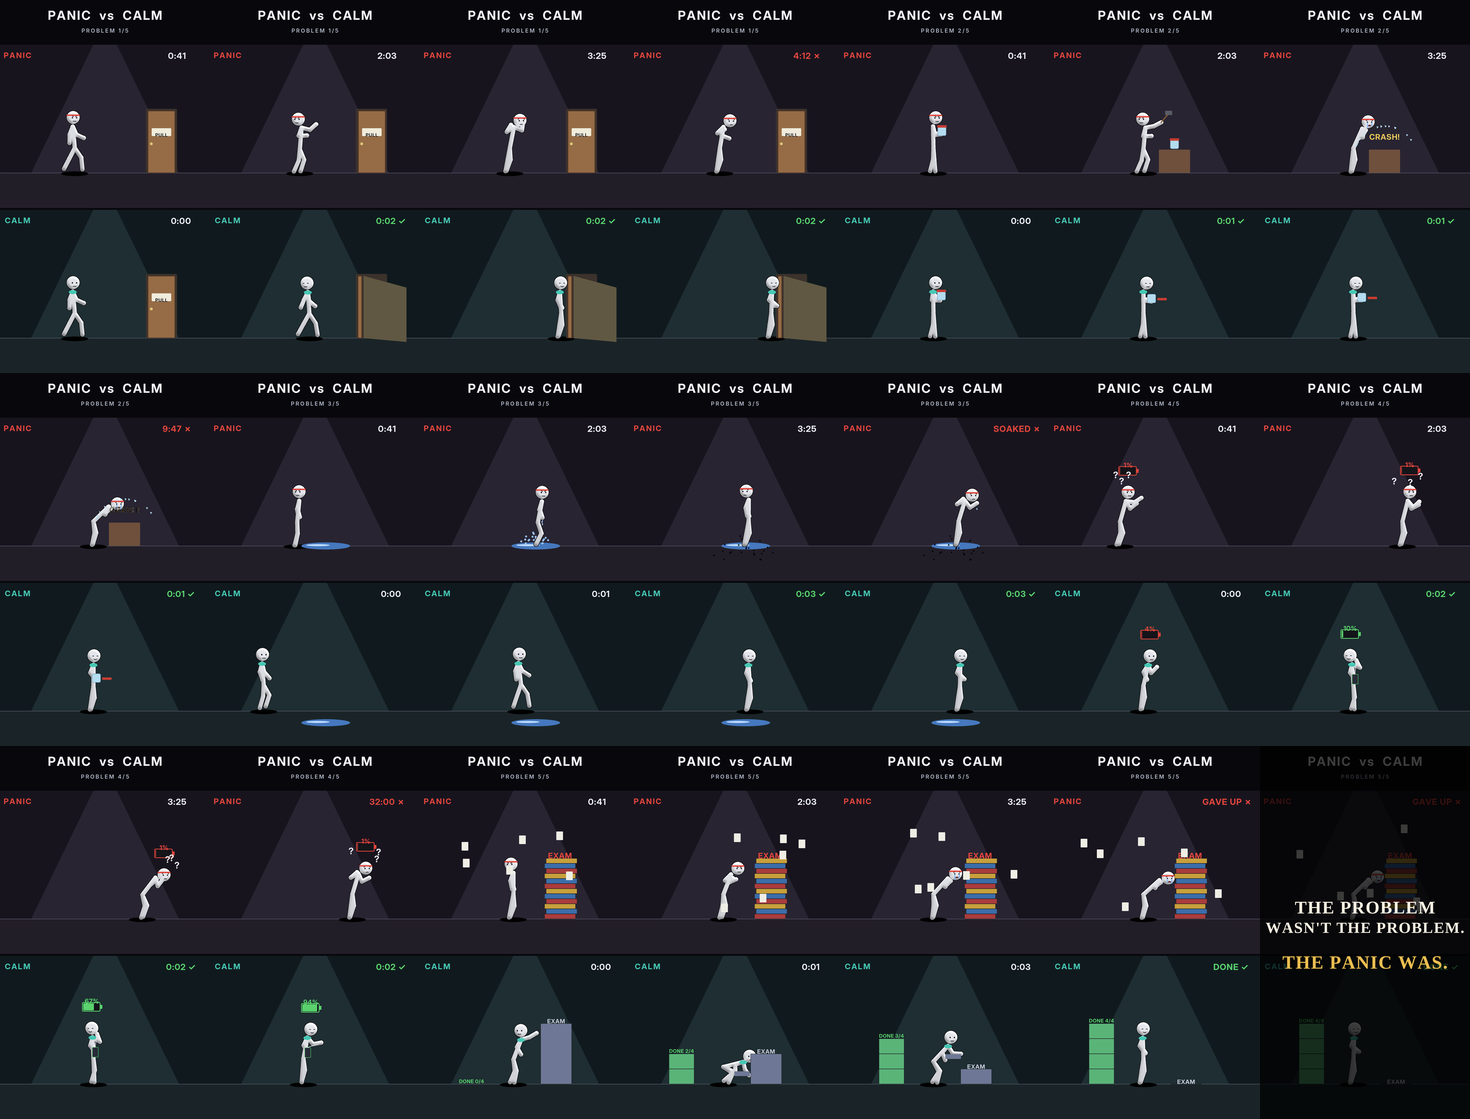
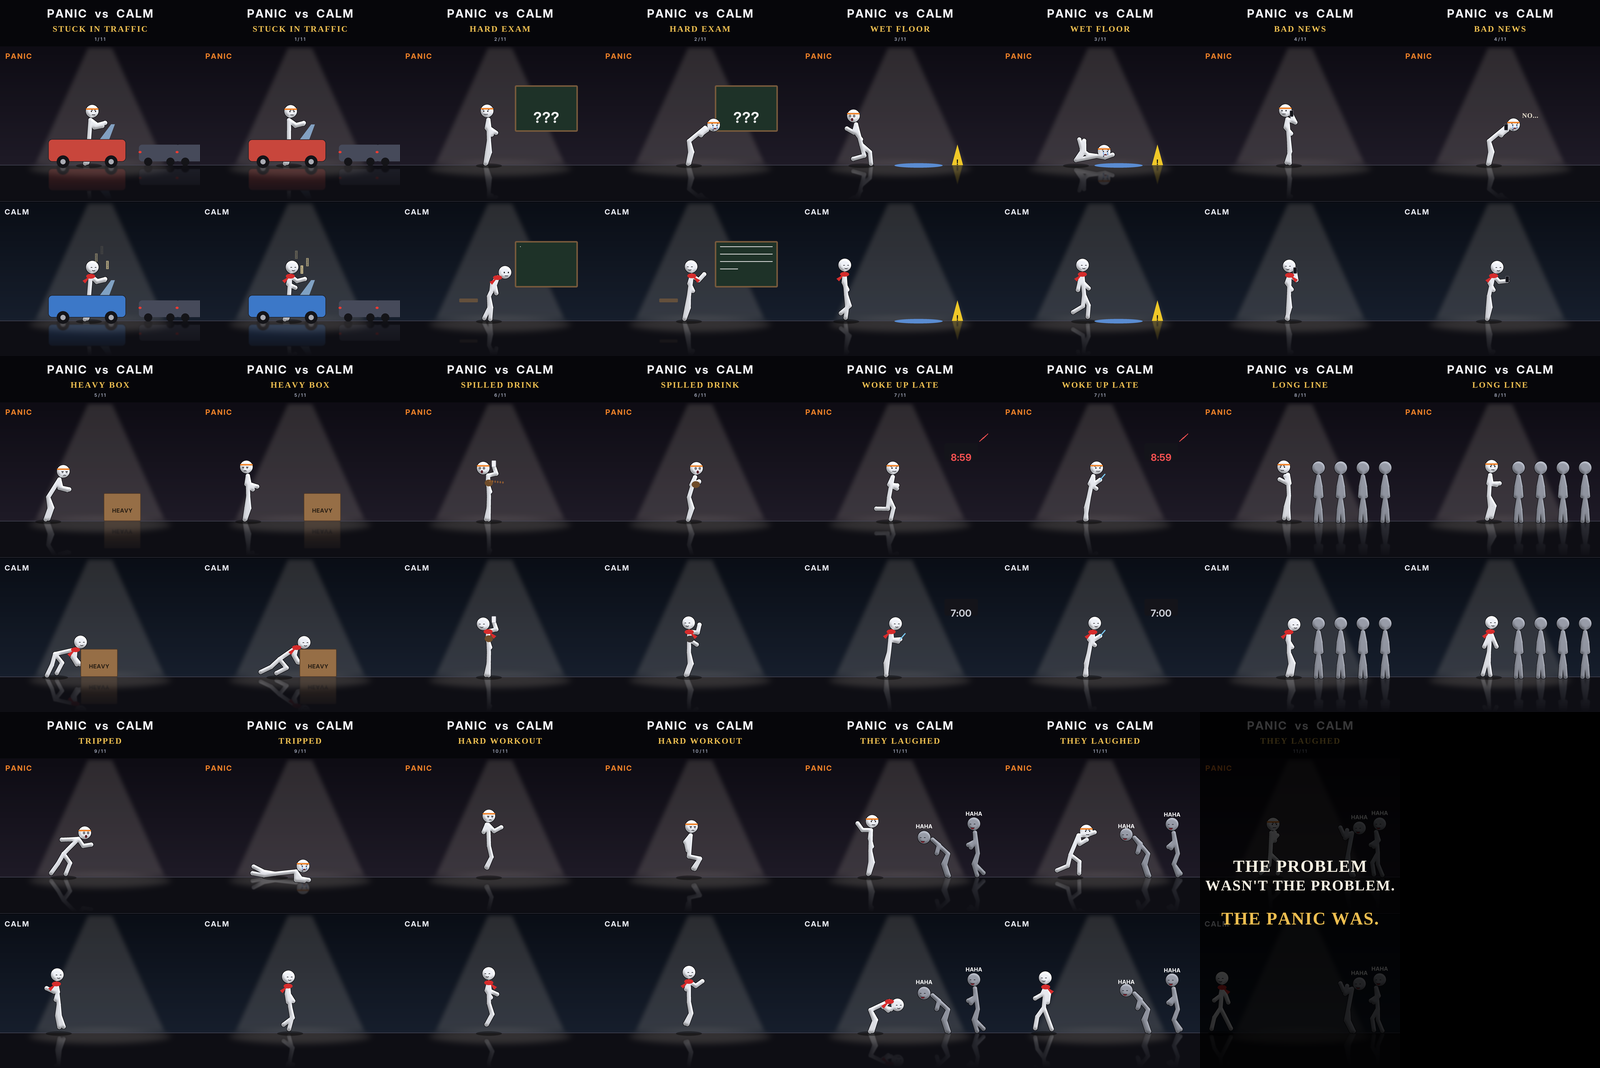
Panic vs Calm v2: 11 motion-first situations, night-stage look
Claude-Session: https://claude.ai/code/session_01YHEweCRu4KjpeQQTJaUupp

diff --git a/stick/panic2.py b/stick/panic2.py
@@ -1,0 +1,384 @@
+#!/usr/bin/env python3
+"""PANIC vs CALM v2 - eleven situations where the motion itself is the meaning (real mocap, CMU), our night-stage look.
+
+    python3 stick/panic2.py --stills [t ...]   # -> stick/panic/stills.png
+    python3 stick/panic2.py stick/panic.mp4
+"""
+import math
+import os
+import subprocess
+import sys
+from multiprocessing import Pool
+
+import numpy as np
+from PIL import Image, ImageDraw, ImageFilter
+
+sys.path.insert(0, os.path.dirname(os.path.abspath(__file__)))
+import perfect_wave as PW  # noqa
+import hq  # noqa
+from compare import ell, line, rrect, poly, figure, place, K, W, H  # noqa
+from perfect_wave import clamp, env, font, lerp, mix_in, noise, prog, smooth, tone, write_wav  # noqa
+from money_chars import face, S, GOLD  # noqa
+from money import put, track, text  # noqa
+from tryagain2 import Seq, seg as _seg, clip  # noqa
+from panic import facing_of  # noqa
+
+FPS, SR = 30, 44100
+L = 3.0
+SERIF = "/usr/share/fonts/truetype/liberation/LiberationSerif-Bold.ttf"
+PANELS = {"P": (250, 1080), "C": (1090, 1920)}
+GROUND = {k: a + 640 for k, (a, b) in PANELS.items()}
+SC = S * 1.15
+ORANGE = (240, 130, 40)
+SCARF = (214, 44, 44)
+GREY = (150, 154, 166)
+
+WALK, RUN, TRIP, DIVE = "007/07_01", "009/09_01", "104/104_13", "090/90_16"
+UPSET, CRY, SCARED, HAPPY, LAUGH = "079/79_74", "079/79_72", "079/79_73", "079/79_69", "079/79_70"
+DRIVE, BOX_LIFT, BOX_PUSH, DRINK, WIPE, BRUSH = "079/79_76", "079/79_25", "081/81_06", "013/13_09", "013/13_20", "079/79_81"
+ANGRYWALK, STOOL, JACKS, QUARREL, BOXING = "017/17_01", "013/13_01", "013/13_29", "018/18_10", "013/13_17"
+SLIP, STUMBLE, PHONE, CHIN, BOARD = "090/90_17", "091/91_59", "079/79_36", "013/13_04", "079/79_31"
+
+
+def sg(name, t0, t1, dur, lock="prev", **kw):
+    """lock: a number = hips held there; 'prev' = held where the previous segment ended; None = the clip travels"""
+    kw.setdefault("facing", facing_of(name, (t0 + t1) / 2))
+    d = _seg(name, t0, t1, dur, **kw)
+    d["_lock"] = lock
+    return d
+
+
+def mv(name, t0, t1, dur, **kw):
+    return sg(name, t0, t1, dur, lock=None, **kw)
+
+
+SITS = [
+    ("STUCK IN TRAFFIC", "traffic",
+     [sg(DRIVE, 2.0, 5.0, 3.0, 520)],
+     [sg(DRIVE, 2.0, 4.0, 3.0, 520)]),
+    ("HARD EXAM", "exam",
+     [sg(UPSET, 2.2, 4.0, 1.4, 420), sg(CRY, 1.0, 3.4, 1.6)],
+     [sg(CHIN, 9.0, 11.0, 1.2, 420), sg(BOARD, 1.0, 4.0, 1.8)]),
+    ("WET FLOOR", "slip",
+     [mv(SLIP, 2.0, 4.4, 2.0), sg(SLIP, 4.4, 4.9, 1.0)],
+     [mv(WALK, 0.3, 2.1, 3.0)]),
+    ("BAD NEWS", "phone",
+     [sg(PHONE, 1.0, 2.6, 1.2, 480), sg(CRY, 1.0, 3.2, 1.8)],
+     [sg(PHONE, 1.0, 3.4, 2.2, 480), sg(PHONE, 3.4, 3.4, 0.8)]),
+    ("HEAVY BOX", "box",
+     [sg(BOX_LIFT, 3.0, 4.4, 1.4, 420), sg(UPSET, 2.2, 3.8, 1.6)],
+     [mv(BOX_PUSH, 1.3, 6.2, 3.0)]),
+    ("SPILLED DRINK", "spill",
+     [sg(DRINK, 1.4, 2.6, 1.0, 480), sg(SCARED, 2.0, 4.8, 2.0)],
+     [sg(DRINK, 1.4, 2.6, 1.0, 480), sg(WIPE, 2.0, 6.0, 2.0)]),
+    ("WOKE UP LATE", "late",
+     [sg(RUN, 0.3, 1.04, 0.5, 480), sg(RUN, 0.3, 1.04, 0.5), sg(BRUSH, 1.0, 6.0, 2.0)],
+     [sg(BRUSH, 1.0, 4.0, 3.0, 480)]),
+    ("LONG LINE", "queue",
+     [sg(ANGRYWALK, 2.0, 8.0, 3.0, 300)],
+     [sg(STOOL, 1.6, 3.2, 3.0, 300)]),
+    ("TRIPPED", "trip",
+     [mv(WALK, 0.3, 1.1, 0.6), mv(TRIP, 0.62, 1.18, 0.5), sg(DIVE, 3.3, 3.95, 0.4, facing=-1), sg(DIVE, 3.95, 3.95, 1.5, facing=-1)],
+     [mv(WALK, 0.3, 1.1, 0.6), mv(STUMBLE, 0.6, 1.6, 0.8), mv(WALK, 0.3, 1.9, 1.6)]),
+    ("HARD WORKOUT", "gym",
+     [sg(JACKS, 0.8, 2.4, 1.1, 480), sg(STOOL, 12.1, 14.5, 1.9)],
+     [sg(JACKS, 0.8, 2.4, 1.0, 480), sg(JACKS, 0.8, 2.4, 1.0), sg(JACKS, 0.8, 2.4, 1.0)]),
+    ("THEY LAUGHED", "laughed",
+     [sg(QUARREL, 4.0, 6.0, 1.4, 380), sg(BOXING, 1.7, 4.2, 1.6)],
+     [sg(LAUGH, 1.0, 3.0, 1.7, 380), mv(WALK, 0.3, 1.6, 1.3, facing=-1)]),
+]
+T_END = L * len(SITS)
+DUR = T_END + 2.6
+NF = int(round(DUR * FPS))
+X0 = {"slip": 150, "box": 260, "trip": 150, "laughed": 380}
+
+
+def build(segs, who, x0):
+    done = []
+    for k, sgm in enumerate(segs):
+        s = dict(sgm, size=1.0)
+        lk = s.pop("_lock")
+        if lk == "prev":
+            if done:
+                prev = Seq(done, x0, floor=GROUND[who], scale=SC)
+                s["lock"] = prev.pts(prev.dur - 1e-3)["hip"][0]
+            else:
+                s["lock"] = x0
+        elif lk is not None:
+            s["lock"] = lk
+        done.append(s)
+    return Seq(done, x0, floor=GROUND[who], scale=SC)
+
+
+_SQ = {}
+
+
+def SQ(i, who):
+    if (i, who) not in _SQ:
+        title, kind, p, c = SITS[i]
+        _SQ[(i, who)] = build(p if who == "P" else c, who, X0.get(kind, 480))
+    return _SQ[(i, who)]
+
+
+def hand_mid(p):
+    return ((p["hl"][0] + p["hr"][0]) / 2, (p["hl"][1] + p["hr"][1]) / 2)
+
+
+def high_hand(p):
+    return p["hl"] if p["hl"][1] < p["hr"][1] else p["hr"]
+
+
+# ---------------------------------------------------------------- props (back = behind the figure, front = over it)
+def props(kind, who, d, st, u, p, front):
+    g = GROUND[who]
+    if kind == "traffic":
+        hx, hy = p["hip"]
+        if not front:
+            for j, cx in enumerate((860, 1060)):      # stopped cars ahead
+                rrect(d, (cx - 110, g - 110, cx + 110, g - 20), 18, (70, 74, 90, 255))
+                ell(d, cx - 104, g - 70, 8, 6, (240, 60, 50, 255))
+                for wx in (cx - 60, cx + 60):
+                    ell(d, wx, g - 18, 22, 22, (20, 20, 24, 255))
+        else:
+            col = (200, 70, 60) if who == "P" else (60, 120, 200)
+            rrect(d, (hx - 220, hy - 10, hx + 200, g - 18), 22, col + (255,), outline=(30, 30, 36, 255), w=3)
+            poly(d, [(hx + 60, hy - 10), (hx + 120, hy - 90), (hx + 140, hy - 90), (hx + 110, hy - 10)], (150, 190, 230, 200))
+            for wx in (hx - 140, hx + 120):
+                ell(d, wx, g - 18, 34, 34, (20, 20, 24, 255))
+                ell(d, wx, g - 18, 14, 14, (170, 172, 180, 255))
+            if who == "P" and int(u * 4) % 2 == 0:
+                PW.spaced(d, (hx + 260) * K, (hy - 120) * K, "BEEP!", font("InterDisplay-Bold.otf", 40 * K), (250, 220, 80, 255), 2)
+            if who == "C":
+                for j in range(3):
+                    v = (u * 0.7 + j / 3) % 1
+                    PW.spaced(d, (hx + 40 + 30 * j) * K, (hy - 170 - 120 * v) * K, "♪", font("InterDisplay-Bold.otf", 40 * K),
+                              (240, 220, 160, int(255 * (1 - v))), 0)
+    elif kind == "exam" and not front:
+        rrect(d, (620, g - 430, 960, g - 180), 8, (30, 50, 40, 255), outline=(120, 90, 60, 255), w=8)
+        if who == "P":
+            PW.spaced(d, 790 * K, (g - 305) * K, "???", font("InterDisplay-Bold.otf", 80 * K), (240, 240, 240, 255), 4)
+        else:
+            sq = SQ(1, "C")
+            w = clamp((u - sq.starts[1]) / sq.segs[1]["dur"])
+            for j in range(int(5 * w) + 1):
+                line(d, [(650, g - 400 + j * 40), (650 + min(1, 5 * w - j) * 280, g - 400 + j * 40)], (230, 230, 230, 255), 4)
+            rrect(d, (320, g - 120, 420, g - 100), 4, (100, 80, 60, 255))
+    elif kind == "slip" and not front:
+        ell(d, 640, g + 2, 130, 12, (90, 140, 210, 255))
+        poly(d, [(820, g), (850, g - 110), (880, g)], (240, 200, 40, 255))
+        PW.spaced(d, 850 * K, (g - 40) * K, "!", font("InterDisplay-Bold.otf", 40 * K), (20, 20, 20, 255), 0)
+    elif kind == "phone" and front:
+        hx, hy = high_hand(p)
+        rrect(d, (hx - 10, hy - 26, hx + 10, hy + 8), 4, (20, 20, 26, 255), outline=(120, 120, 130, 255), w=2)
+        if who == "P" and u > 1.3:
+            PW.spaced(d, (p["head"][0] + 90) * K, (p["head"][1] - 70) * K, "NO...", font(SERIF, 36 * K), (236, 228, 210, 255), 3)
+    elif kind == "box":
+        if who == "P":
+            if not front:
+                rrect(d, (560, g - 150, 760, g), 6, (150, 110, 70, 255), outline=(80, 56, 36, 255), w=3)
+                PW.spaced(d, 660 * K, (g - 75) * K, "HEAVY", font("InterDisplay-Bold.otf", 30 * K), (40, 30, 20, 255), 3)
+        elif front:
+            hx = max(p["hl"][0], p["hr"][0])
+            rrect(d, (hx + 4, g - 150, hx + 204, g), 6, (150, 110, 70, 255), outline=(80, 56, 36, 255), w=3)
+            PW.spaced(d, (hx + 104) * K, (g - 75) * K, "HEAVY", font("InterDisplay-Bold.otf", 30 * K), (40, 30, 20, 255), 3)
+    elif kind == "spill" and front:
+        sq = SQ(5, who)
+        nx, ny = p["neck"]
+        if u < sq.segs[0]["dur"]:
+            hx, hy = high_hand(p)
+            rrect(d, (hx - 12, hy - 30, hx + 12, hy + 6), 4, (240, 240, 245, 255), outline=(150, 150, 160, 255), w=2)
+        stain = 1.0 if who == "P" else 1 - smooth(clamp((u - 1.2) / 1.6))
+        if u > 0.75 and stain > 0:
+            ell(d, nx + 4, ny + 40, 22, 18, (120, 80, 40, int(220 * stain)))
+            if who == "P" and u < 1.3:
+                for j in range(6):
+                    ell(d, nx + 10 + 14 * j, ny + 30 + 30 * (u - 0.75) * j, 4, 6, (140, 90, 50, 255))
+    elif kind == "late":
+        if not front:
+            rrect(d, (780, g - 420, 960, g - 330), 10, (20, 20, 26, 255))
+            col = (240, 80, 80) if who == "P" else (200, 204, 214)
+            PW.spaced(d, 870 * K, (g - 375) * K, "8:59" if who == "P" else "7:00", font("InterDisplay-Bold.otf", 52 * K), col + (255,), 2)
+            if who == "P" and int(u * 6) % 2 == 0:
+                for j in range(3):
+                    line(d, [(970 + 10 * j, g - 430 - 8 * j), (990 + 12 * j, g - 450 - 10 * j)], (240, 80, 80, 255), 4)
+        else:
+            sq = SQ(6, who)
+            if u >= sq.starts[-1]:
+                hx, hy = high_hand(p)
+                line(d, [(hx, hy), (hx + 26, hy - 30)], (120, 200, 240, 255), 6)
+    elif kind == "queue" and not front:
+        for j, x in enumerate((640, 760, 880, 1000)):
+            q = place(PW.STAND, (x, g - 113 * SC), -1, SC)
+            figure(st, q, SC, light=(0.4, -0.9), body=GREY)
+    elif kind == "laughed" and not front:
+        for j, (x, nm) in enumerate(((800, LAUGH), (960, "014/14_17"))):
+            q = clip(nm).pts(1.5 + (u * 1.2 + j * 0.4) % 2.0, x0=0, floor=g, scale=SC, x_lock=x, facing=-1)
+            figure(st, q, SC, light=(0.4, -0.9), body=GREY)
+            face(ImageDraw.Draw(st), q, "laugh", -1, u)
+            PW.spaced(d, q["head"][0] * K, (q["head"][1] - 70 + 8 * math.sin(u * 14 + j)) * K, "HAHA",
+                      font("InterDisplay-Bold.otf", 30 * K), (255, 255, 255, 255), 2)
+
+
+# ---------------------------------------------------------------- the look
+_C = {}
+
+
+def panel_back(who):
+    if who not in _C:
+        a, b = PANELS[who]
+        g = GROUND[who]
+        im = Image.new("RGBA", (W * K, H * K), (0, 0, 0, 0))
+        d = ImageDraw.Draw(im)
+        top, bot = ((14, 12, 20), (30, 26, 38)) if who == "P" else ((10, 14, 22), (22, 30, 44))
+        for j in range(40):
+            y0 = a + (g - a) * j / 40
+            y1 = a + (g - a) * (j + 1) / 40
+            col = tuple(int(lerp(top[k], bot[k], j / 39)) for k in range(3))
+            d.rectangle((0, y0 * K, W * K, y1 * K + 1), col + (255,))
+        d.rectangle((0, g * K, W * K, b * K), (14, 14, 20, 255))
+        cone = Image.new("RGBA", im.size, (0, 0, 0, 0))
+        ImageDraw.Draw(cone).polygon([(470 * K, a * K), (610 * K, a * K), (900 * K, g * K), (180 * K, g * K)], (255, 240, 220, 34))
+        im.alpha_composite(cone.filter(ImageFilter.GaussianBlur(14 * K)))
+        pool = Image.new("RGBA", im.size, (0, 0, 0, 0))
+        ImageDraw.Draw(pool).ellipse((140 * K, (g - 30) * K, 940 * K, (g + 70) * K), (255, 240, 220, 40))
+        im.alpha_composite(pool.filter(ImageFilter.GaussianBlur(20 * K)))
+        line(d, [(0, g), (W, g)], (70, 70, 86, 255), 3)
+        _C[who] = im
+    return _C[who]
+
+
+def expr(kind, who, u):
+    if who == "C":
+        return "happy" if kind != "exam" or u > 1.2 else "neutral"
+    return {"traffic": "angry", "exam": "cry" if u > 1.4 else "nervous", "slip": "shocked" if u < 2.0 else "cry",
+            "phone": "cry" if u > 1.2 else "neutral", "box": "tired", "spill": "shocked", "late": "nervous",
+            "queue": "angry", "trip": "shocked" if u < 1.5 else "cry", "gym": "tired", "laughed": "angry"}[kind]
+
+
+def draw_panel(st, i, who, u):
+    title, kind, _, _ = SITS[i]
+    a, b = PANELS[who]
+    g = GROUND[who]
+    st.alpha_composite(panel_back(who).crop((0, a * K, W * K, b * K)), (0, a * K))
+    lay = Image.new("RGBA", st.size, (0, 0, 0, 0))
+    d = ImageDraw.Draw(lay)
+    sq = SQ(i, who)
+    p = sq.pts(min(u, sq.dur - 1e-3))
+    ell(d, p["hip"][0], g + 4, 70, 12, (0, 0, 0, 110))
+    props(kind, who, d, lay, u, p, False)
+    figure(lay, p, SC, light=(0.4, -0.9), body=(236, 238, 244))
+    dd = ImageDraw.Draw(lay)
+    f = 1 if p["head"][0] >= p["neck"][0] else -1
+    face(dd, p, expr(kind, who, u), f, u)
+    if who == "P":
+        hx, hy = p["head"]
+        line(dd, [(hx - 30, hy - 12), (hx + 30, hy - 12)], ORANGE + (255,), 8)
+    else:
+        nx, ny = p["neck"]
+        ell(dd, nx, ny + 2, 21 * SC / S, 11 * SC / S, SCARF + (255,))
+        poly(dd, [(nx, ny), (nx - f * 44, ny + 26), (nx - f * 30, ny + 40)], SCARF + (255,))
+    props(kind, who, dd, lay, u, p, True)
+    # glossy floor: a faded reflection
+    band = lay.crop((0, (g - (b - g)) * K, W * K, g * K)).transpose(Image.FLIP_TOP_BOTTOM)
+    band = band.filter(ImageFilter.GaussianBlur(3 * K))
+    al = np.asarray(band.split()[3], np.float32) * np.linspace(0.28, 0.0, band.size[1], dtype=np.float32)[:, None]
+    band.putalpha(Image.fromarray(al.astype(np.uint8)))
+    st.alpha_composite(band, (0, g * K))
+    st.alpha_composite(lay.crop((0, a * K, W * K, b * K)), (0, a * K))
+
+
+def frame(t):
+    st = Image.new("RGBA", (W * K, H * K), (6, 6, 10, 255))
+    end = t >= T_END
+    i = min(len(SITS) - 1, int(t / L))
+    u = (t - i * L) if not end else L - 0.01
+    for who in ("P", "C"):
+        draw_panel(st, i, who, u)
+    im = st.resize((W, H), Image.LANCZOS)
+    dd = ImageDraw.Draw(im)
+    PW.spaced(dd, W / 2, 34, "PANIC  vs  CALM", font("InterDisplay-Bold.otf", 62), (246, 246, 250, 255), 6)
+    PW.spaced(dd, W / 2, 130, SITS[i][0], font(SERIF, 46), GOLD + (255,), 5)
+    PW.spaced(dd, W / 2, 196, f"{i + 1}/{len(SITS)}", font("Inter-SemiBold.otf", 24), (170, 176, 196, 255), 6)
+    PW.spaced(dd, 100, PANELS["P"][0] + 28, "PANIC", font("InterDisplay-Bold.otf", 40), ORANGE + (255,), 5)
+    PW.spaced(dd, 90, PANELS["C"][0] + 28, "CALM", font("InterDisplay-Bold.otf", 40), (236, 238, 246, 255), 5)
+    dd.line((0, PANELS["C"][0] - 5, W, PANELS["C"][0] - 5), (50, 52, 64), 3)
+    if end:
+        v = t - T_END
+        im = Image.blend(im.convert("RGB"), Image.new("RGB", (W, H), (0, 0, 0)), 0.78 * smooth(clamp(v / 0.4))).convert("RGBA")
+        text(im, W / 2, 780, "THE PROBLEM", 92, a=smooth(prog(v, 0.2, 0.5)))
+        text(im, W / 2, 890, "WASN'T THE PROBLEM.", 80, a=smooth(prog(v, 0.35, 0.65)))
+        text(im, W / 2, 1060, "THE PANIC WAS.", 96, col=GOLD, a=smooth(prog(v, 1.0, 1.3)))
+    for k_ in range(1, len(SITS)):
+        if abs(t - k_ * L) < 0.06:
+            im.alpha_composite(Image.new("RGBA", im.size, (255, 255, 255, 80)))
+    return np.asarray(im.convert("RGB"))
+
+
+def render(i):
+    acc = None
+    for k_ in range(2):
+        f = frame((i + k_ / 4) / FPS).astype(np.float32)
+        acc = f if acc is None else acc + f
+    return (acc / 2).astype(np.uint8).tobytes()
+
+
+MUSIC = "Hitman.mp3"
+
+
+def audio():
+    n = int(DUR * SR)
+    out = np.zeros((n, 2))
+    put(out, track(MUSIC, 20.0, DUR), 0.0, 1.5, fin=0.05, fout=1.0)
+    for i, (title, kind, _, _) in enumerate(SITS):
+        s0 = i * L
+        mix_in(out, tone(1320, 0.5, (1, 2, 3), a=0.002, d=0.45), s0 + 1.8, 0.22, 0.5)
+        if kind in ("slip", "trip"):
+            mix_in(out, noise(0.3, 9, lo=40, hi=900)[:int(0.3 * SR)] * env(int(0.3 * SR), 0.002, 0.25), s0 + 1.45, 0.7, -0.5)
+        if kind == "traffic":
+            for k_ in range(3):
+                mix_in(out, tone(440, 0.22, (1, 1.5), a=0.005, d=0.05), s0 + 0.3 + k_ * 0.5, 0.25, -0.5)
+        if kind == "laughed":
+            mix_in(out, noise(1.4, 4, lo=300, hi=2500)[:int(1.4 * SR)] * env(int(1.4 * SR), 0.05, 0.8), s0 + 0.1, 0.25, 0.5)
+        if i:
+            mix_in(out, noise(0.3, 9, lo=500, hi=7000)[:int(0.3 * SR)] * env(int(0.3 * SR), 0.15, 0.1), s0 - 0.15, 0.15, 0.0)
+    mix_in(out, tone(55, 1.0, (1, 2), a=0.002, d=0.9), T_END + 1.0, 0.5, 0.0)
+    tt = np.arange(n) / SR
+    out *= np.clip((DUR - tt) / 0.7, 0.0, 1)[:, None]
+    out /= max(1.0, np.abs(out).max() / 0.9)
+    return out
+
+
+def main():
+    here = os.path.dirname(os.path.abspath(__file__))
+    os.makedirs(os.path.join(here, "panic"), exist_ok=True)
+    if "--stills" in sys.argv:
+        ts = [float(a) for a in sys.argv[2:]] or [i * L + o for i in range(len(SITS)) for o in (0.8, 2.4)] + [T_END + 2.2]
+        cols = 8
+        rows = math.ceil(len(ts) / cols)
+        sheet = Image.new("RGB", (200 * cols, 356 * rows))
+        for j, t in enumerate(ts):
+            sheet.paste(Image.fromarray(frame(t)).resize((200, 356), Image.LANCZOS), ((j % cols) * 200, (j // cols) * 356))
+        p = os.path.join(here, "panic", "stills.png")
+        sheet.save(p)
+        print(p, round(DUR, 1))
+        return
+    out = sys.argv[1]
+    wav = out + ".wav"
+    write_wav(wav, audio())
+    p = subprocess.Popen(["ffmpeg", "-v", "error", "-y", "-f", "rawvideo", "-pix_fmt", "rgb24", "-s", f"{W}x{H}",
+                          "-r", str(FPS), "-i", "-", "-i", wav, "-c:v", "libx264", "-preset", "slow", "-crf", "17",
+                          "-pix_fmt", "yuv420p", "-af", "loudnorm=I=-13:TP=-1.5:LRA=11", "-ar", "44100",
+                          "-c:a", "aac", "-b:a", "192k", "-shortest", "-movflags", "+faststart", out],
+                         stdin=subprocess.PIPE)
+    with Pool(os.cpu_count()) as pool:
+        for b in pool.imap(render, range(NF), chunksize=2):
+            p.stdin.write(b)
+    p.stdin.close()
+    p.wait()
+    os.remove(wav)
+    print(out)
+    print(f'Credit: Music: "{MUSIC[:-4]}" by Kevin MacLeod (incompetech.com), CC BY 4.0')
+
+
+if __name__ == "__main__":
+    main()
